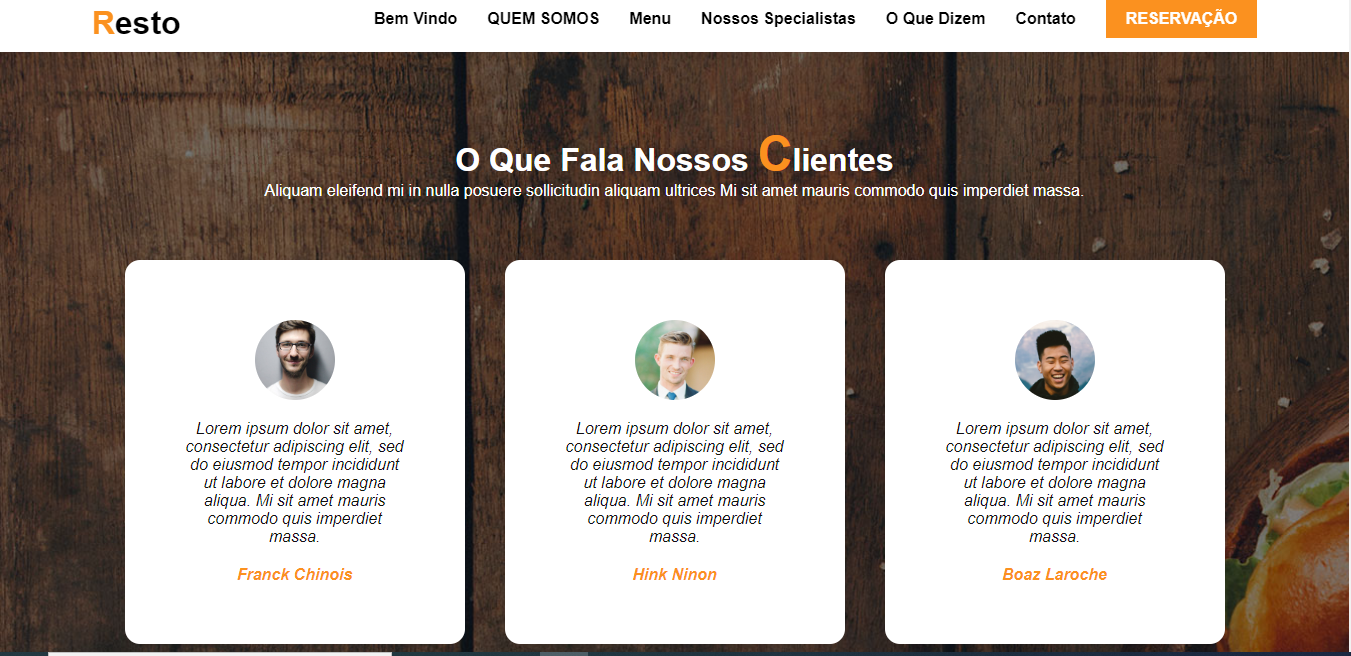
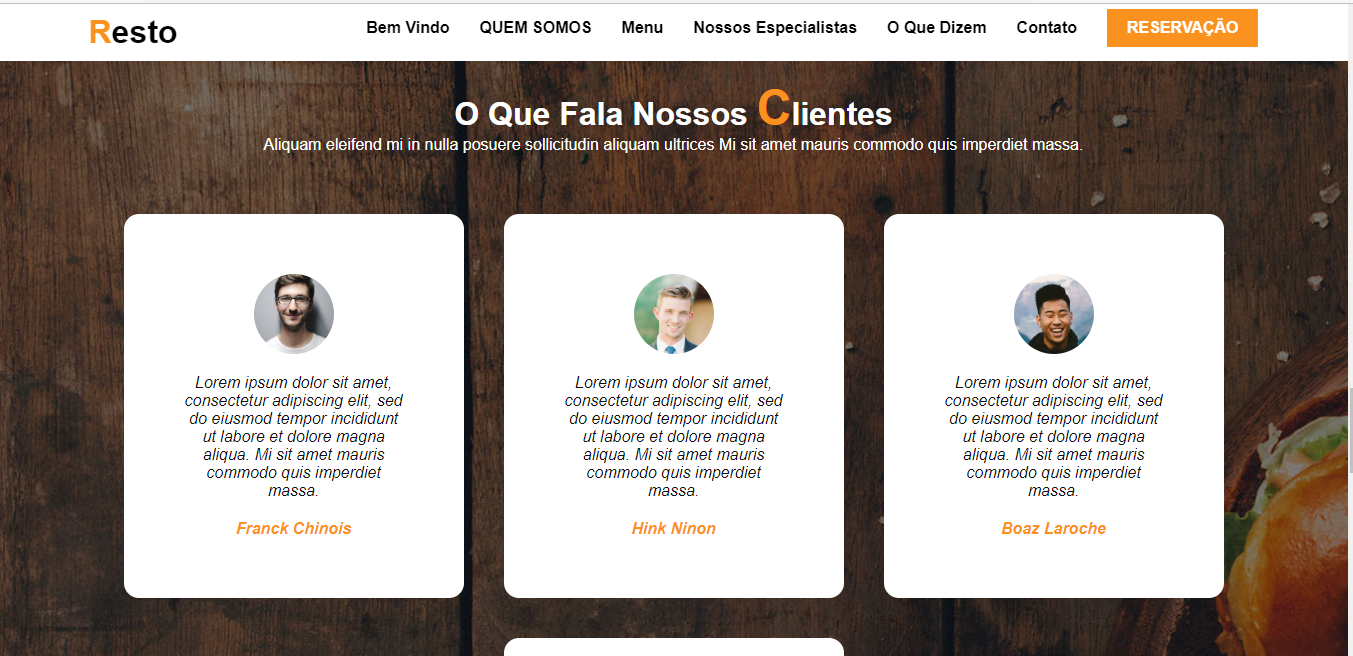
...

diff --git a/index.html b/index.html
@@ -18,7 +18,7 @@
         <li><a href="#banniere" onclick="toggleMenu();">Bem Vindo</a></li>
         <li><a href="#quemsomos" onclick="toggleMenu();">QUEM SOMOS</a></li>
         <li><a href="#menu" onclick="toggleMenu();">Menu</a></li>
-        <li><a href="#especialistas" onclick="toggleMenu();">Nossos Specialistas</a></li>
+        <li><a href="#especialistas" onclick="toggleMenu();">Nossos Especialistas</a></li>
         <li><a href="#oquediz" onclick="toggleMenu();">O Que Dizem</a></li>
         <li><a href="#contato" onclick="toggleMenu();">Contato</a></li>
         <a href="#" class="btn-Reserv"onclick="toggleMenu();">Reservação</a>

diff --git a/Style.css b/Style.css
@@ -159,8 +159,8 @@ section{
 }
 
 .row .col50 img{
-    height: 450px;
-    width: 550px;
+    height: 380px;
+    width: 530px;
     position: relative;
 }
 
